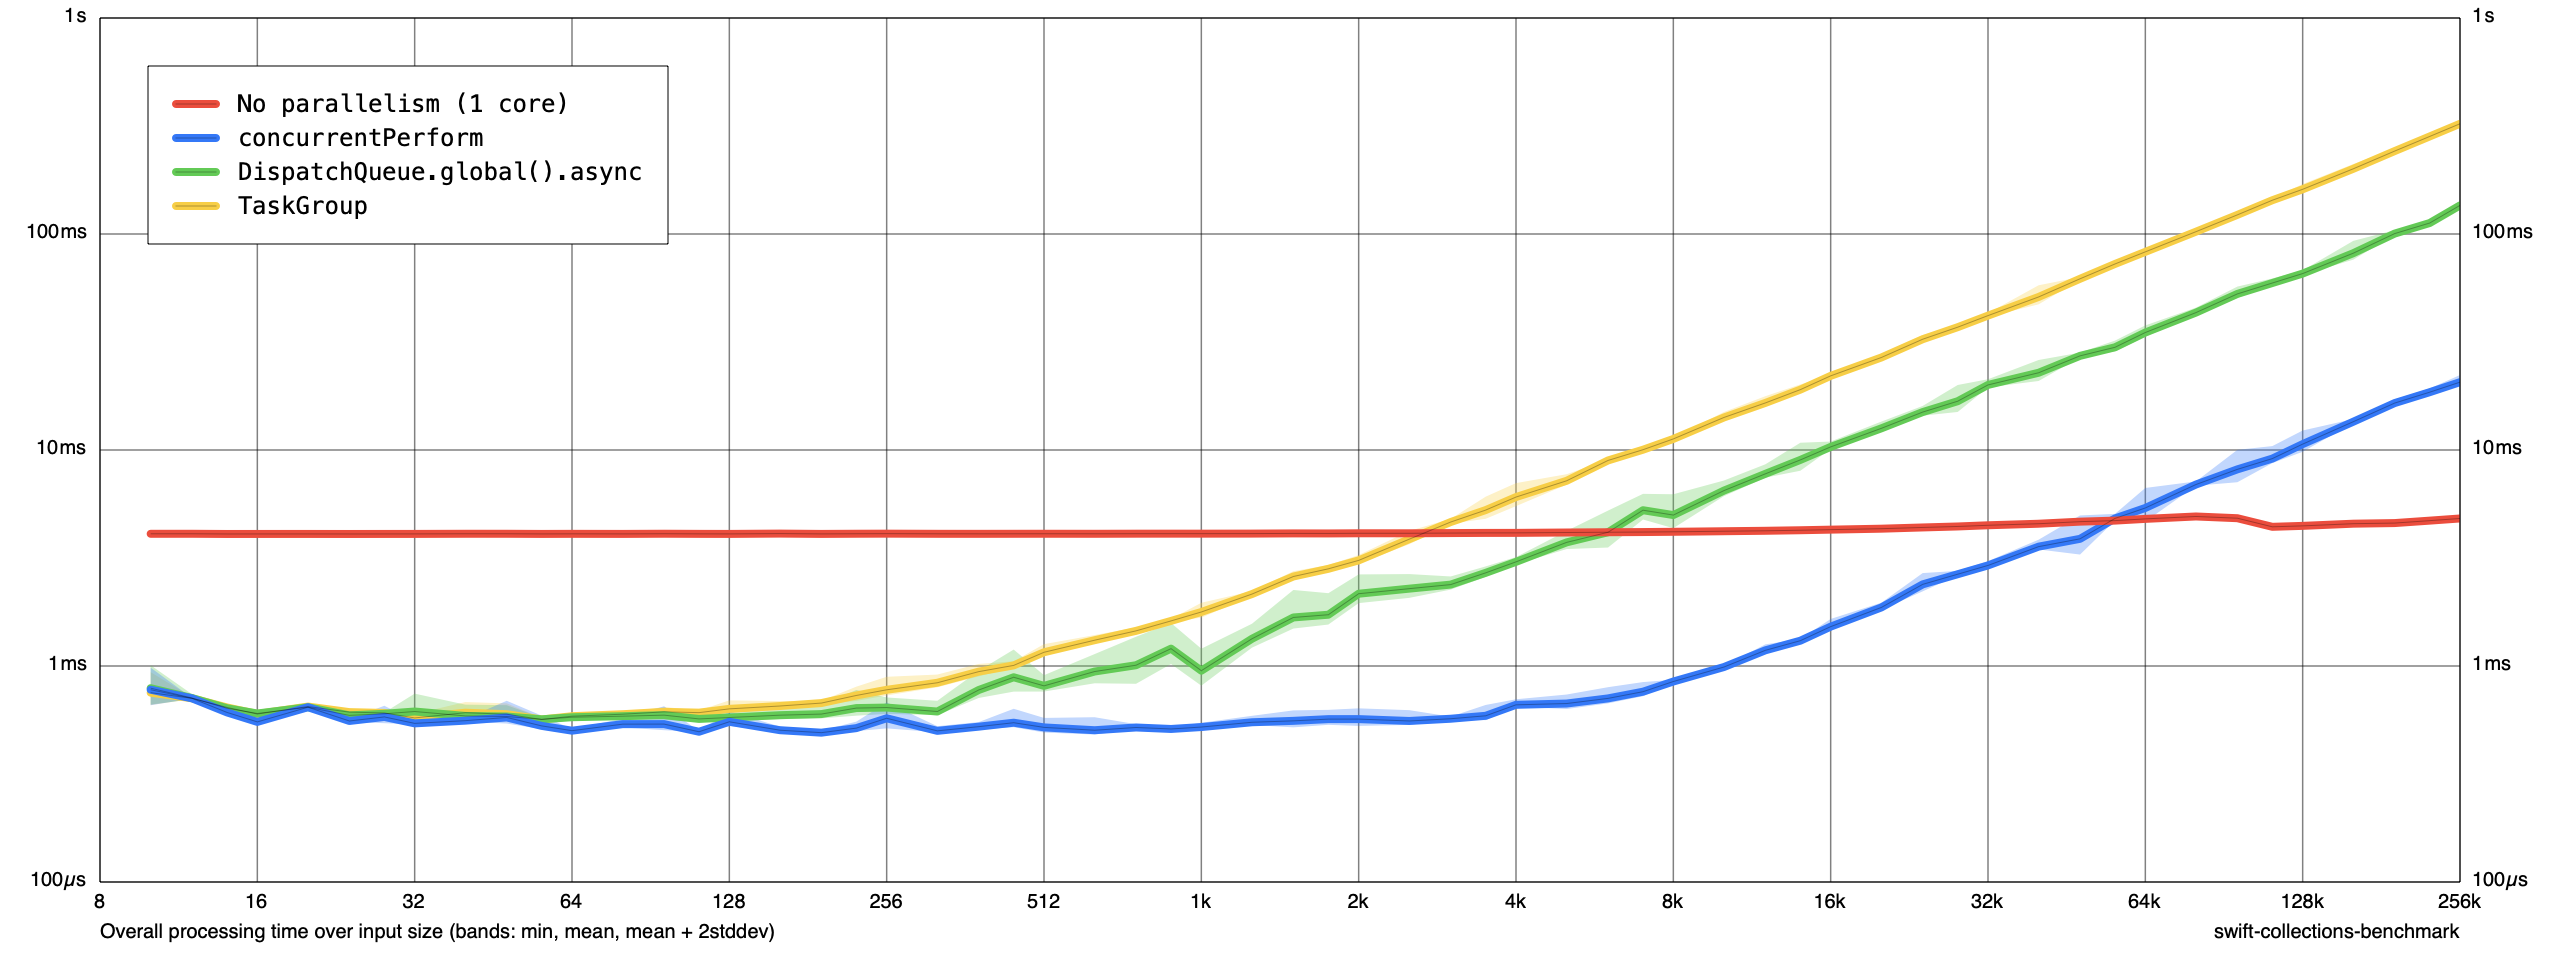
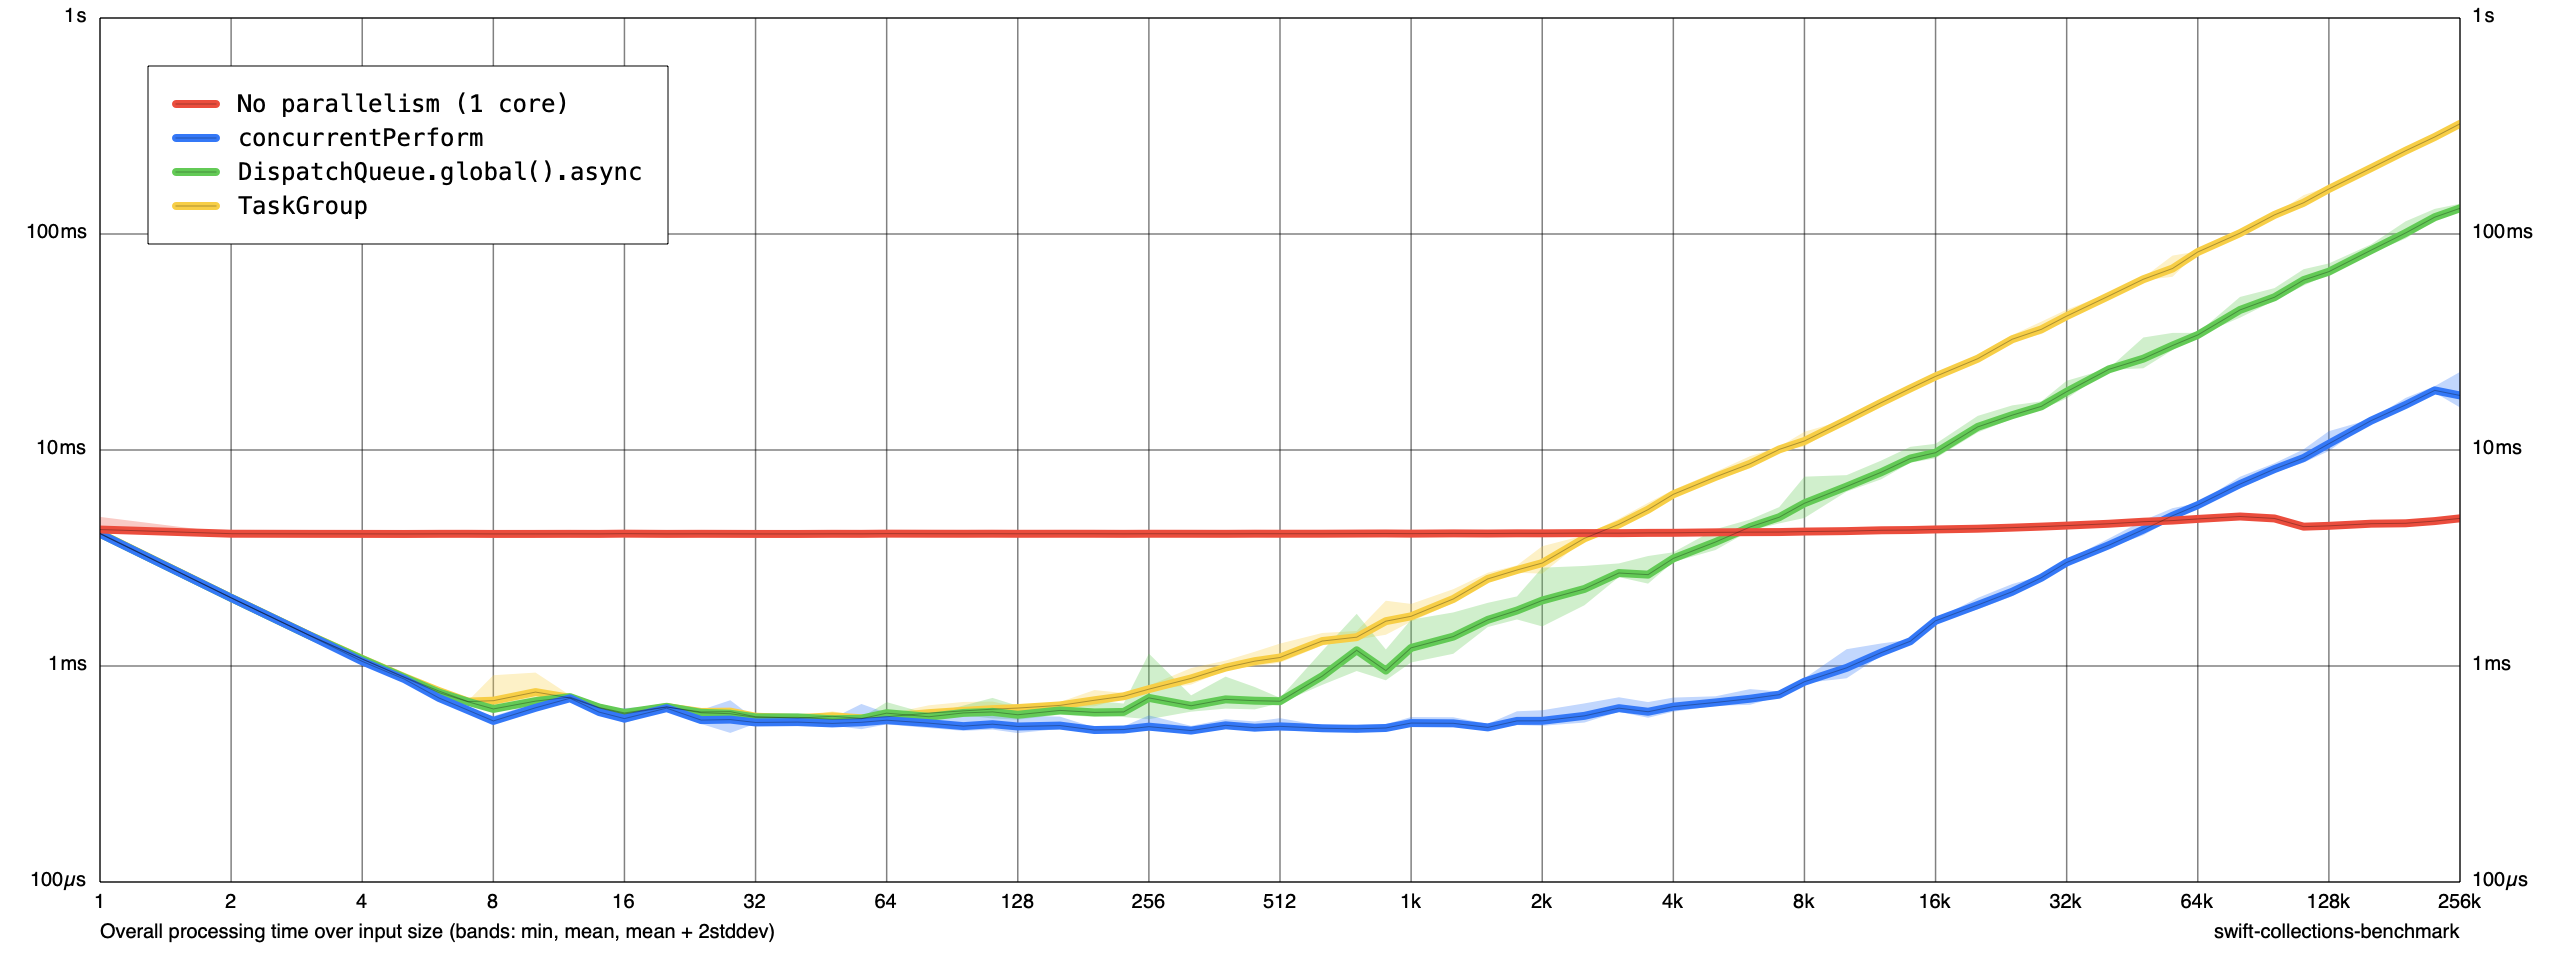
Add observations about the results to readme

diff --git a/README.md b/README.md
@@ -9,7 +9,6 @@ Run the benchmarks:
 ```sh
 swift run -c release benchmark run \
   --cycles 3 \
-  --min-size 10 \
   --max-size 256k \
   BenchmarkData/benchmark-data.json
 ```
@@ -20,8 +19,7 @@ Create a chart:
 swift run -c release benchmark render \
   BenchmarkData/benchmark-data.json \
   BenchmarkData/chart.png \
-  --amortized false \
-  && open BenchmarkData/chart.png
+  --amortized false
 ```
 
 For more options:
@@ -29,7 +27,11 @@ For more options:
 - `swift run -c release benchmark run --help`
 - `swift run -c release benchmark render --help`
 
-## Current chart
+## Analysis
+
+This chart was created on an Apple M1 Pro (10 cores):
+
+![Current chart](BenchmarkData/chart.png)
 
 Note: the x axis should be called "number of subtasks", not "input size":
 
@@ -39,6 +41,9 @@ Note: the x axis should be called "number of subtasks", not "input size":
 - The "No parallelism (1 core)" task always performs the same number of computations, regardless of input size. This is why the line is flat.
 - We're passing `--amortized false` when rendering the chart to show the total elapsed time. Without this, the chart would depict the time per "subtask", which is meaningless to us because the amount of work per subtask isn't constant. 
 
-This chart was created on an Apple M1 Pro (10 cores):
+Observations:
 
-![Current chart](BenchmarkData/chart.png)
+- The pure computational work takes ~6 ms on this machine (see the flat line). 
+- At 1 subtask (no parallelism), all strategies have effectively the same performance (unsurprising).
+- At the optimal level of parallelism (around 32–64 subtasks), all parallelization strategies are are almost 10× as fast as the single-core benchmark (good).
+- `DispatchQueue.concurrentPerform` is more efficient than `TaskGroup` and `DispatchQueue.global().async` as the number of subtasks increases.  
